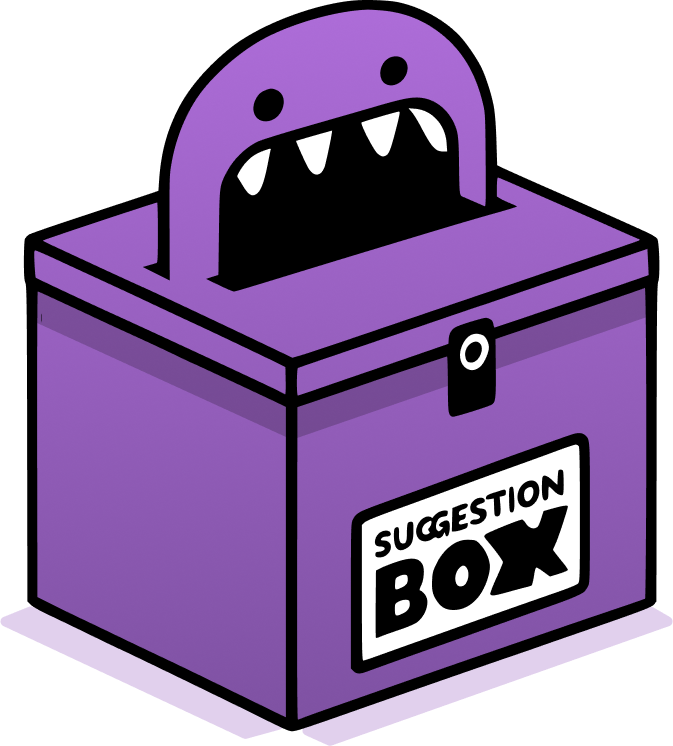
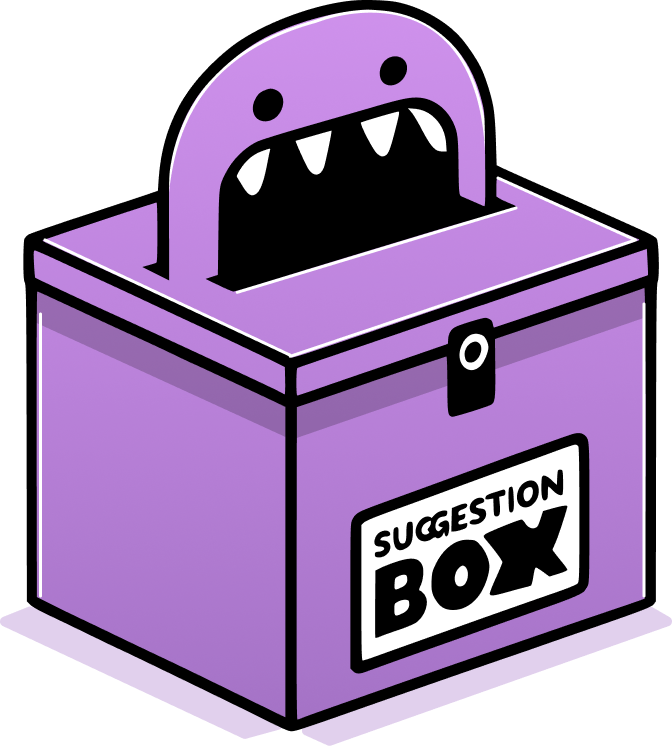
add empty state illustration

diff --git a/static/style.css b/static/style.css
@@ -99,6 +99,32 @@ p.badge {
 	font-family: 'Atkinson Bold', sans-serif;
 }
 
+.container h1 {
+	margin-bottom: 1.5rem;
+}
+
+h1.submit {
+	margin-bottom: .75rem;
+}
+
+img.empty {
+	max-width: 240px;
+}
+
+.emptyState {
+	display: flex;
+	flex-direction: column;
+	align-items: center;
+}
+
+.emptyState img {
+	margin: 1.5rem 0;
+}
+
+.emptyState h1 {
+	margin-bottom: 0;
+}
+
 .flash-messages {
 	position: fixed;
 	top: 1rem;
@@ -246,14 +272,6 @@ header nav a:hover {
 	background-color: white;
 	border-radius: .5rem;
 	box-shadow: 0px 4px 12px -4px rgba(0,0,0,0.15);
-}
-
-.container h1 {
-	margin-bottom: 1.5rem;
-}
-
-h1.submit {
-	margin-bottom: .75rem;
 }
 
 header nav .mobileNav {

diff --git a/templates/inbox.html b/templates/inbox.html
@@ -14,7 +14,10 @@
             </div>
         {% endfor %}
     {% else %}
-        <img src="{{ url_for('static', filename='empty.png') }}">
-        <p>No messages yet.</p>
+        <div class="emptyState">
+            <img class="empty" src="{{ url_for('static', filename='empty.png') }}">
+            <h1>Nothing to see here...</h1>
+            <p>No messages yet.</p>
+        </div>
     {% endif %}
 {% endblock %}
